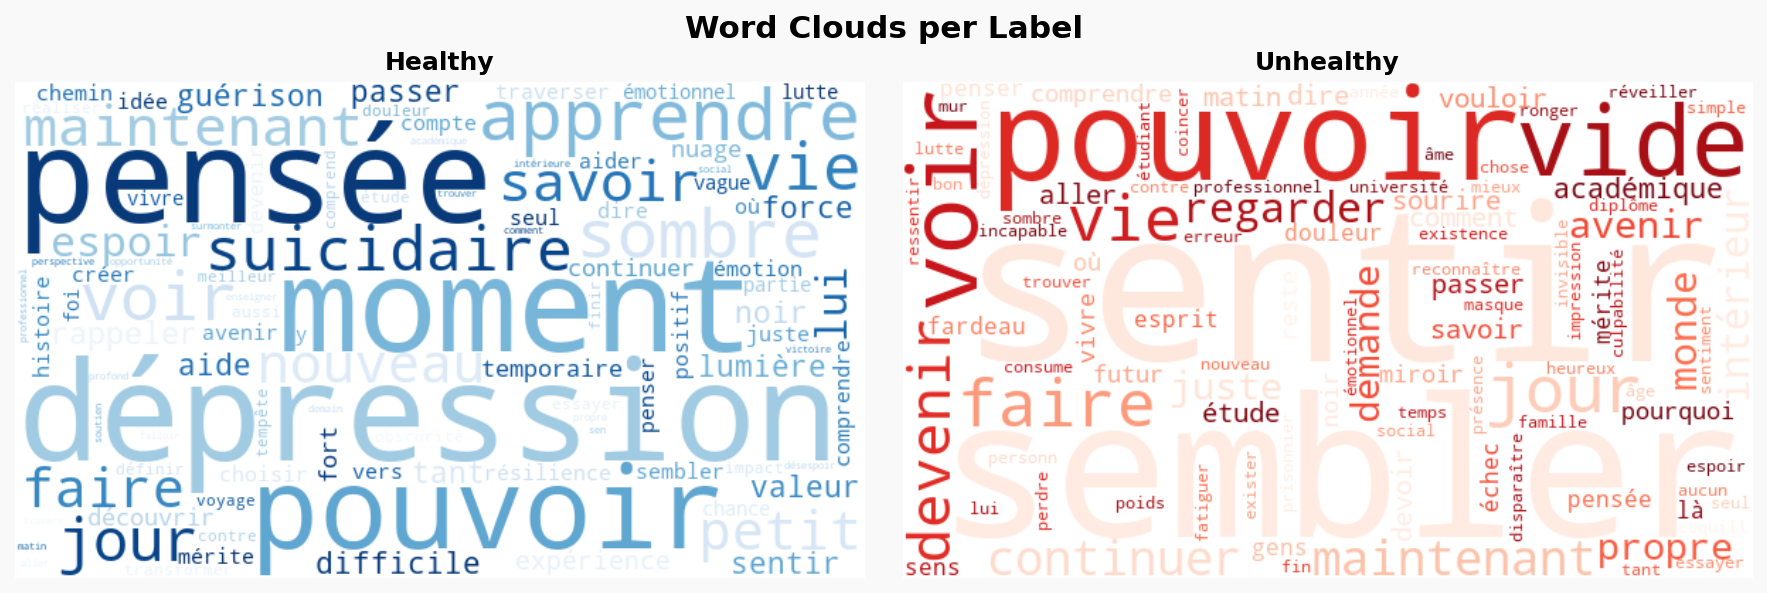
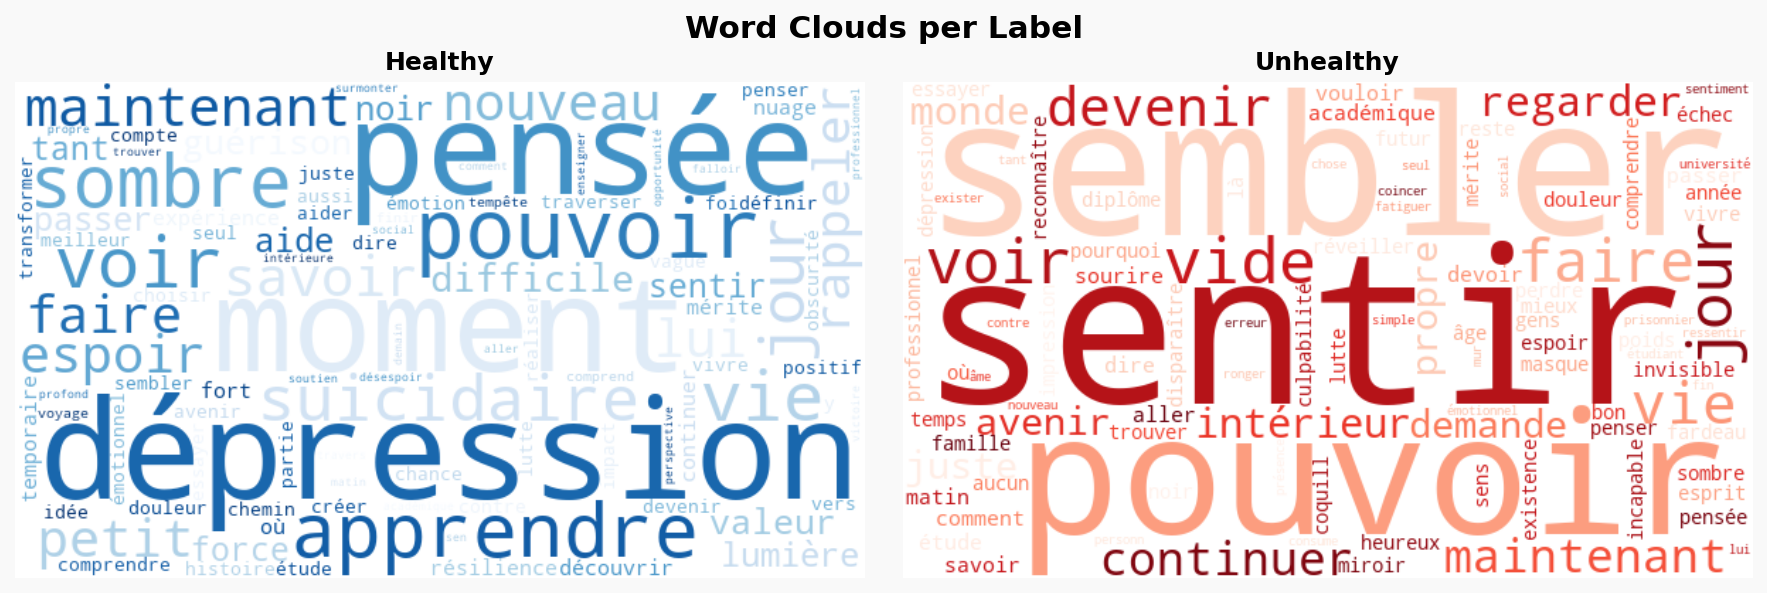
removed the mean from the text length

diff --git a/Code/EDA/FrenchMhEDA.py b/Code/EDA/FrenchMhEDA.py
@@ -926,9 +926,7 @@ class EDAAnalysis:
             ("emoticon_count", axes[0, 1], "#87CEEB", "Emoticon Count Distribution", "Emoticons per text"),
         ]:
             ax.hist(df[col], bins=20, color=color, edgecolor="white")
-            mean   = df[col].mean()
             median = df[col].median()
-            ax.axvline(mean,   color="red",  linestyle="--", label=f"Mean={mean:.4f}")
             ax.axvline(median, color="navy", linestyle=":",  label=f"Median={median:.4f}")
             ax.set_title(title)
             ax.set_xlabel(xlabel)
